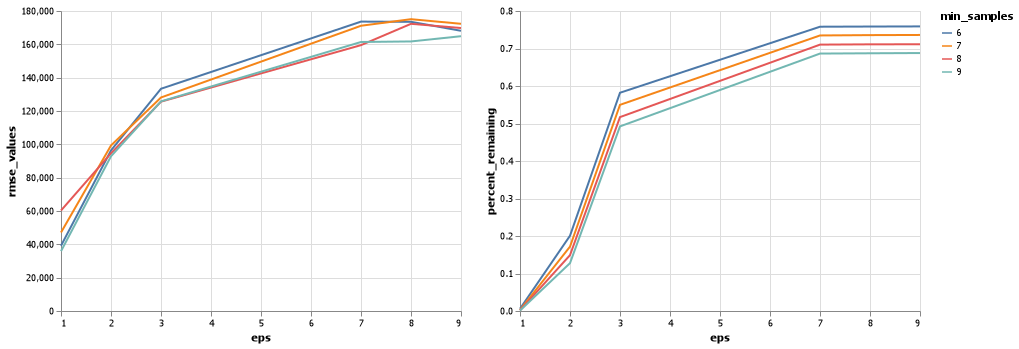
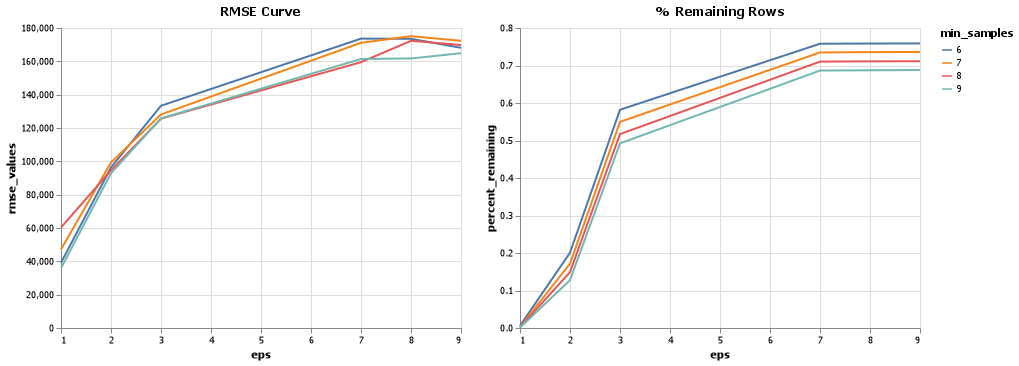
Finished analysis, got rid of ocsvm Ready for compilation

diff --git a/demonstration/lof.py b/demonstration/lof.py
@@ -80,29 +80,19 @@ normal_chart = sqft|grd|lot
 ##############################
 # import new models
 ##############################
-from sklearn.cluster import DBSCAN
+from sklearn.neighbors import LocalOutlierFactor as lof
 import numpy as np
 ##################################
 # clean up data with outlier detection model
 ##################################
-detection_model = DBSCAN(
-    eps = 10,
-    min_samples = 10
+detection_model = lof(
+    n_neighbors=2
 )
 
-db = detection_model.fit(data_train)
+pred = pd.DataFrame(detection_model.fit_predict(data_train))
 
-core_samples_mask = np.zeros_like(db.labels_, dtype = bool)
-core_samples_mask[db.core_sample_indices_] = True
-labels = db.labels_
-
-n_clusters_ = len(set(labels)) - (1 if -1 in labels else 0)
-n_noise_ = list(labels).count(-1)
-
-print("Estimated number of clusters: %d" % n_clusters_)
-print("Estimated number of noise points: %d" % n_noise_)
-
-data_clean = data_train.iloc[db.core_sample_indices_]
+indicies = pred.loc[pred[0] == 1].index
+data_clean = data_train.iloc[indicies]
 #%%
 ###################################
 # Create new charts
@@ -155,23 +145,20 @@ print('Base RMSE 217,240')
 normal_chart & new_chart 
 
 #%%
-def create_effective_charts(data_train,es,mins):
-    from sklearn.cluster import DBSCAN
+def create_effective_charts(data_train,neigh):
+    from sklearn.neighbors import LocalOutlierFactor as lof
     import numpy as np
     ##################################
     # clean up data with outlier detection model
     ##################################
-    detection_model = DBSCAN(
-        eps = es,
-        min_samples = mins
+    detection_model = lof(
+        n_neighbors=neigh
     )
 
-    db = detection_model.fit(data_train)
+    pred = pd.DataFrame(detection_model.fit_predict(data_train))
 
-    core_samples_mask = np.zeros_like(db.labels_, dtype = bool)
-    core_samples_mask[db.core_sample_indices_] = True
-
-    data_clean = data_train.iloc[db.core_sample_indices_]
+    indicies = pred.loc[pred[0] == 1].index
+    data_clean = data_train.iloc[indicies]    
 
     #This cell runs the model
     # create x & y values
@@ -196,64 +183,55 @@ def create_effective_charts(data_train,es,mins):
 # %%
 import time
 rmse = []
-eps = []
-msamples = []
+neighbors = []
 shape = []
 base = []
-for ep in [1,2,3,7,8,9]:
-    for samp in [6,7,8,9]:
-        tic = time.perf_counter() # start timer
-        rmse_loop,dat_shape = create_effective_charts(data_train,ep,samp)
-        # append values to lists
-        eps.append(ep)
-        msamples.append(samp)
-        rmse.append(rmse_loop)
-        shape.append(dat_shape)
-        base.append(20000)
-        toc = time.perf_counter() # end timer
-        print('eps: {}  sample: {}  time: {}\n\n'.format(ep,samp,round(toc - tic,2)))
+for neighbor in [4,5,6,7,8,9,10]:
+    tic = time.perf_counter() # start timer
+    rmse_loop,dat_shape = create_effective_charts(data_train,neighbor)
+    # append values to lists
+    neighbors.append(neighbor)
+    rmse.append(rmse_loop)
+    shape.append(dat_shape)
+    base.append(20000)
+    toc = time.perf_counter() # end timer
+    print('neighbors: {}  time: {}\n\n'.format(neighbor,round(toc - tic,2)))
 df_results = pd.DataFrame(
     {'rmse_values':rmse,
-    'eps':eps,
-    'min_samples':msamples,
+    'n_neighbors':neighbors,
     'remaining_rows':shape,
     'start_rows':base}
 )
 # %%
-chart1 = alt.Chart(df_results).mark_line().encode(
-    alt.X('eps'),
-    alt.Y('rmse_values'),
-    alt.Color('min_samples:N')
+chart1 = alt.Chart(df_results,title = 'RMSE Curve').mark_line().encode(
+    alt.X('n_neighbors'),
+    alt.Y('rmse_values')
 )
 chart1
 # %%
 df_results['percent_remaining'] = df_results.remaining_rows/20000
-chart2 = alt.Chart(df_results).mark_line().encode(
-    alt.X('eps'),
+chart2 = alt.Chart(df_results,title = '% Rows Remaining').mark_line().encode(
+    alt.X('n_neighbors'),
     alt.Y('percent_remaining'),
     alt.Color('min_samples:O',sort='descending')
 )
 chart_fin = chart1 | chart2
 # %%
-chart_fin.save('dbscan_percent_remaining.png')
+chart_fin.save('lof_percent_remaining.png')
 # %%
-from sklearn.cluster import DBSCAN
-import numpy as np
 ##################################
 # clean up data with outlier detection model
 ##################################
 # Insert the best eps and min_samples values found above
-eps_best = 8
-min_samples_best = 9
 
-detection_model = DBSCAN(
-    eps = eps_best,
-    min_samples = min_samples_best
+detection_model = lof(
+    n_neighbors=10
 )
 
-db = detection_model.fit(data_train)
+pred = pd.DataFrame(detection_model.fit_predict(data_train))
 
-data_clean = data_train.iloc[db.core_sample_indices_]
+indicies = pred.loc[pred[0] == 1].index
+data_clean = data_train.iloc[indicies]
 
 ###################################
 # Create new charts
@@ -274,6 +252,6 @@ nlot = alt.Chart(data_clean,title = 'Sqft Lot Correlation').mark_point().encode(
 )
 
 new_chart = nsqft|ngrd|nlot
-new_chart.save('dbscan_chart.png')
+new_chart.save('lof_chart.png')
 new_chart
 # %%

diff --git a/models/One_Class_SVM_XXXXX/ocsvm.py b/models/One_Class_SVM_XXXXX/ocsvm.py
@@ -80,29 +80,20 @@ normal_chart = sqft|grd|lot
 ##############################
 # import new models
 ##############################
-from sklearn.cluster import DBSCAN
-import numpy as np
+from sklearn.svm import OneClassSVM as ocsvm
 ##################################
 # clean up data with outlier detection model
 ##################################
-detection_model = DBSCAN(
-    eps = 10,
-    min_samples = 10
-)
+detection_model = ocsvm()
 
-db = detection_model.fit(data_train)
+detection_model.fit(data_train)
 
-core_samples_mask = np.zeros_like(db.labels_, dtype = bool)
-core_samples_mask[db.core_sample_indices_] = True
-labels = db.labels_
+pred = pd.DataFrame(detection_model.predict(data_train))
 
-n_clusters_ = len(set(labels)) - (1 if -1 in labels else 0)
-n_noise_ = list(labels).count(-1)
+pred = pred.loc[pred[0] ==1 ].index
 
-print("Estimated number of clusters: %d" % n_clusters_)
-print("Estimated number of noise points: %d" % n_noise_)
+data_clean = data_train.iloc[pred]
 
-data_clean = data_train.iloc[db.core_sample_indices_]
 #%%
 ###################################
 # Create new charts

diff --git a/demonstration/dbscan.py b/demonstration/dbscan.py
@@ -217,7 +217,7 @@ df_results = pd.DataFrame(
     'start_rows':base}
 )
 # %%
-chart1 = alt.Chart(df_results).mark_line().encode(
+chart1 = alt.Chart(df_results,title = 'RMSE Curve').mark_line().encode(
     alt.X('eps'),
     alt.Y('rmse_values'),
     alt.Color('min_samples:N')
@@ -225,7 +225,7 @@ chart1 = alt.Chart(df_results).mark_line().encode(
 chart1
 # %%
 df_results['percent_remaining'] = df_results.remaining_rows/20000
-chart2 = alt.Chart(df_results).mark_line().encode(
+chart2 = alt.Chart(df_results,title = '% Remaining Rows').mark_line().encode(
     alt.X('eps'),
     alt.Y('percent_remaining'),
     alt.Color('min_samples:O',sort='descending')

diff --git a/demonstration/isoforest.py b/demonstration/isoforest.py
@@ -212,7 +212,7 @@ df_results = pd.DataFrame(
     'start_rows':base}
 )
 # %%
-chart1 = alt.Chart(df_results).mark_line().encode(
+chart1 = alt.Chart(df_results,title = 'RMSE Curve').mark_line().encode(
     alt.X('contam',title = 'Contamination %'),
     alt.Y('rmse_values')
 )
